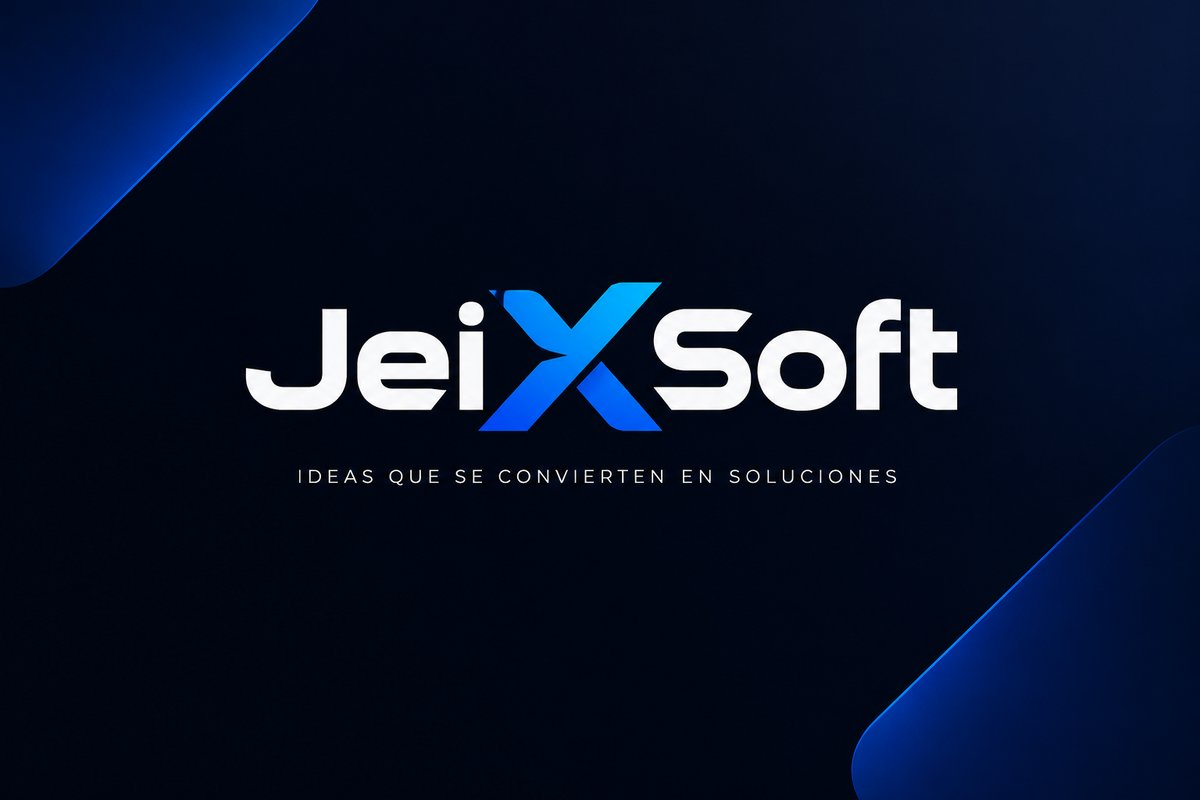
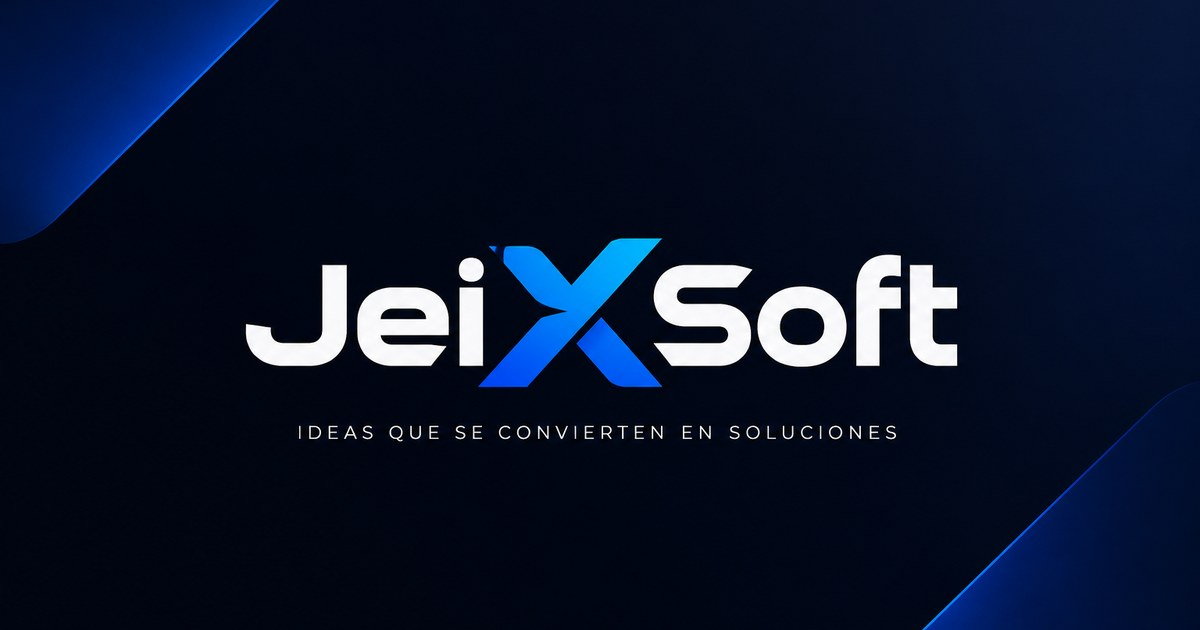
Mejora el SEO y la vista previa en redes sociales
- Lee proyectos y contacto de Firestore al compilar para que el HTML los incluya
- Open Graph y X/Twitter completos, URL canónica, robots e imagen 1200x630
- Datos estructurados schema.org (marca, fundador, sitio y proyectos)
- sitemap.xml, robots.txt con el sitemap, manifest y página 404

diff --git a/src/lib/content.ts b/src/lib/content.ts
@@ -1,0 +1,44 @@
+// Lee el contenido real de Firestore al compilar, para que el HTML que ven Google y las redes
+// sociales ya traiga los proyectos y los datos de contacto. Si falla, usa el contenido inicial.
+// En el navegador, public.ts vuelve a consultar Firestore y muestra los cambios hechos después.
+import { collection, doc, getDoc, getDocs, getFirestore, query, where } from 'firebase/firestore/lite';
+import { firebaseApp, isFirebaseConfigured } from './firebase';
+import { defaultProjects, defaultSettings } from './defaults';
+import type { Project, SiteSettings } from './types';
+
+const TIMEOUT_MS = 8000;
+
+function withTimeout<T>(promise: Promise<T>) {
+  return Promise.race([
+    promise,
+    new Promise<never>((_, reject) => setTimeout(() => reject(new Error('Tiempo de espera agotado')), TIMEOUT_MS)),
+  ]);
+}
+
+export async function loadSiteContent(): Promise<{ settings: SiteSettings; projects: Project[] }> {
+  const fallback = {
+    settings: defaultSettings,
+    projects: defaultProjects.filter((p) => p.published).sort((a, b) => a.order - b.order),
+  };
+  if (!isFirebaseConfigured) return fallback;
+
+  try {
+    const db = getFirestore(firebaseApp());
+    const [settingsSnap, projectsSnap] = await withTimeout(
+      Promise.all([
+        getDoc(doc(db, 'settings', 'site')),
+        getDocs(query(collection(db, 'projects'), where('published', '==', true))),
+      ]),
+    );
+    const projects = projectsSnap.docs
+      .map((d) => ({ id: d.id, ...(d.data() as Project) }))
+      .sort((a, b) => (a.order ?? 0) - (b.order ?? 0));
+    return {
+      settings: settingsSnap.exists() ? { ...defaultSettings, ...(settingsSnap.data() as SiteSettings) } : defaultSettings,
+      projects: projects.length ? projects : fallback.projects,
+    };
+  } catch (err) {
+    console.warn('[content] No se pudo leer Firestore al compilar; se usa el contenido inicial.', err);
+    return fallback;
+  }
+}

diff --git a/src/pages/sitemap.xml.ts b/src/pages/sitemap.xml.ts
@@ -1,0 +1,13 @@
+import type { APIRoute } from 'astro';
+
+// Solo la página pública; el panel (/admin) queda fuera a propósito.
+const pages = ['/'];
+
+export const GET: APIRoute = ({ site }) => {
+  const lastmod = new Date().toISOString().slice(0, 10);
+  const urls = pages
+    .map((path) => `  <url>\n    <loc>${new URL(path, site)}</loc>\n    <lastmod>${lastmod}</lastmod>\n  </url>`)
+    .join('\n');
+  const xml = `<?xml version="1.0" encoding="UTF-8"?>\n<urlset xmlns="http://www.sitemaps.org/schemas/sitemap/0.9">\n${urls}\n</urlset>\n`;
+  return new Response(xml, { headers: { 'Content-Type': 'application/xml; charset=utf-8' } });
+};

diff --git a/src/pages/robots.txt.ts b/src/pages/robots.txt.ts
@@ -1,0 +1,6 @@
+import type { APIRoute } from 'astro';
+
+export const GET: APIRoute = ({ site }) =>
+  new Response(`User-agent: *\nAllow: /\nDisallow: /admin\n\nSitemap: ${new URL('/sitemap.xml', site)}\n`, {
+    headers: { 'Content-Type': 'text/plain; charset=utf-8' },
+  });

diff --git a/README.md b/README.md
@@ -115,6 +115,17 @@ src/
 firestore.rules           Reglas de base de datos
 ```
 
+## SEO y redes sociales
+
+- Al compilar, `src/lib/content.ts` lee los proyectos y los datos de contacto de Firestore, así el HTML que ven Google
+  y las redes ya los incluye. En el navegador se vuelven a consultar para mostrar cambios hechos después.
+  **Después de cambios importantes en el panel, vuelve a desplegar** (en Vercel: Deployments > Redeploy) para que
+  Google y las vistas previas de enlaces los vean.
+- `src/layouts/Base.astro`: título, descripción, URL canónica, Open Graph (WhatsApp, Facebook, LinkedIn) y X/Twitter.
+- Datos estructurados (schema.org) en la página principal: la marca, su fundador, el sitio y la lista de proyectos.
+- `/sitemap.xml` y `/robots.txt` se generan solos con el dominio de `site` en `astro.config.mjs`.
+- `public/og.jpg` (1200×630) es la imagen que aparece al compartir el enlace.
+
 ## Imágenes de los proyectos
 
 No se usa Firebase Storage. Las imágenes viven dentro del sitio:
